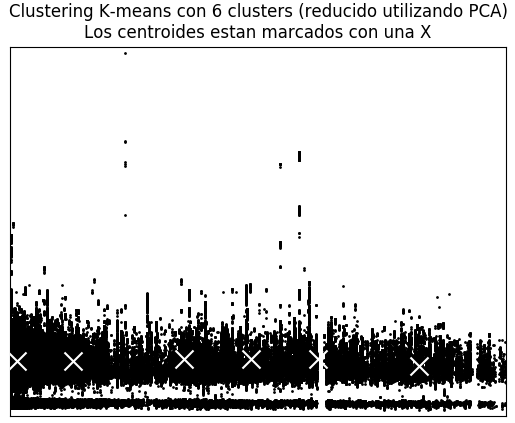
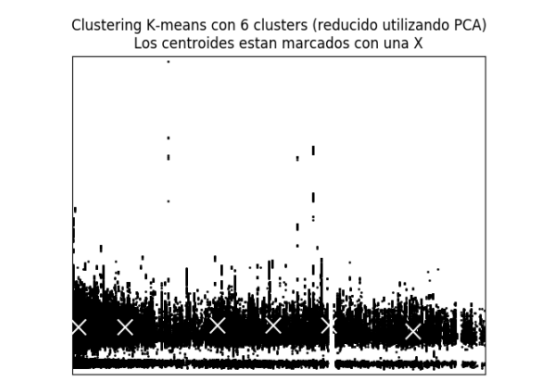
estoy listo :)

diff --git a/minibatch.py b/minibatch.py
@@ -38,26 +38,25 @@ x_min, x_max = reviews[:, 0].min() - 1, reviews[:, 0].max() + 1
 y_min, y_max = reviews[:, 1].min() - 1, reviews[:, 1].max() + 1
 xx   , yy    = np.meshgrid(np.arange(x_min, x_max, h), np.arange(y_min, y_max, h))
 
-# Obtain labels for each point in mesh. Use last trained model.
 Z = mini_batch.predict(np.c_[xx.ravel(), yy.ravel()])
-
-# Put the result into a color plot
 Z = Z.reshape(xx.shape)
 
 plt.figure(1)
 plt.clf()
 plt.imshow(Z, interpolation = 'nearest', extent = (xx.min(), xx.max(), yy.min(), yy.max()),
-			  cmap = plt.cm.Paired, aspect = 'auto', origin = 'lower')
+			    cmap = plt.cm.Paired, aspect = 'auto', origin = 'lower')
 
 plt.plot(reviews[:, 0], reviews[:, 1], 'k.', markersize = 2)
-# Plot the centroids as a white X
-centroids = mini_batch.cluster_centers_
 
+centroids = mini_batch.cluster_centers_
 plt.scatter(centroids[:, 0], centroids[:, 1], marker = 'x', s = 169, linewidths = 3, color = 'w', zorder = 10)
+
 plt.title("Clustering MiniBatch K-means con " + str(n_clusters) + " clusters (reducido utilizando PCA)\n"
           "Los centroides estan marcados con una X")
 plt.xlim(x_min, x_max)
 plt.ylim(y_min, y_max)
+##	COMENTAR PARA QUITAR NUMEROS EN LOS EJES	##
 plt.xticks(())
 plt.yticks(())
+################################################
 plt.show()

diff --git a/kmeans.py b/kmeans.py
@@ -44,15 +44,18 @@ plt.figure(1)
 plt.clf()
 plt.imshow(Z, interpolation = 'nearest', extent = (xx.min(), xx.max(), yy.min(), yy.max()),
 			    cmap = plt.cm.Paired, aspect = 'auto', origin = 'lower')
+
 plt.plot(reviews[:, 0], reviews[:, 1], 'k.', markersize = 2)
 
 centroids = k_means.cluster_centers_
-
 plt.scatter(centroids[:, 0], centroids[:, 1], marker = 'x', s = 169, linewidths = 3, color = 'w', zorder = 10)
+
 plt.title("Clustering K-means con " + str(n_clusters) + " clusters (reducido utilizando PCA)\n"
           "Los centroides estan marcados con una X")
 plt.xlim(x_min, x_max)
 plt.ylim(y_min, y_max)
+##	COMENTAR PARA QUITAR NUMEROS EN LOS EJES	##
 plt.xticks(())
 plt.yticks(())
+################################################
 plt.show()

diff --git a/hac.py b/hac.py
@@ -40,5 +40,6 @@ for i in range(reviews.shape[0]):
 	plt.text(reviews[i,0], reviews[i,1], 'x',
 	color    = plt.cm.spectral(hac.labels_[i] / 10.))
 
+plt.title("Clustering HAC con " + str(n_clusters) + " clusters (reducido utilizando PCA)")
 plt.show()
 plt.show()
